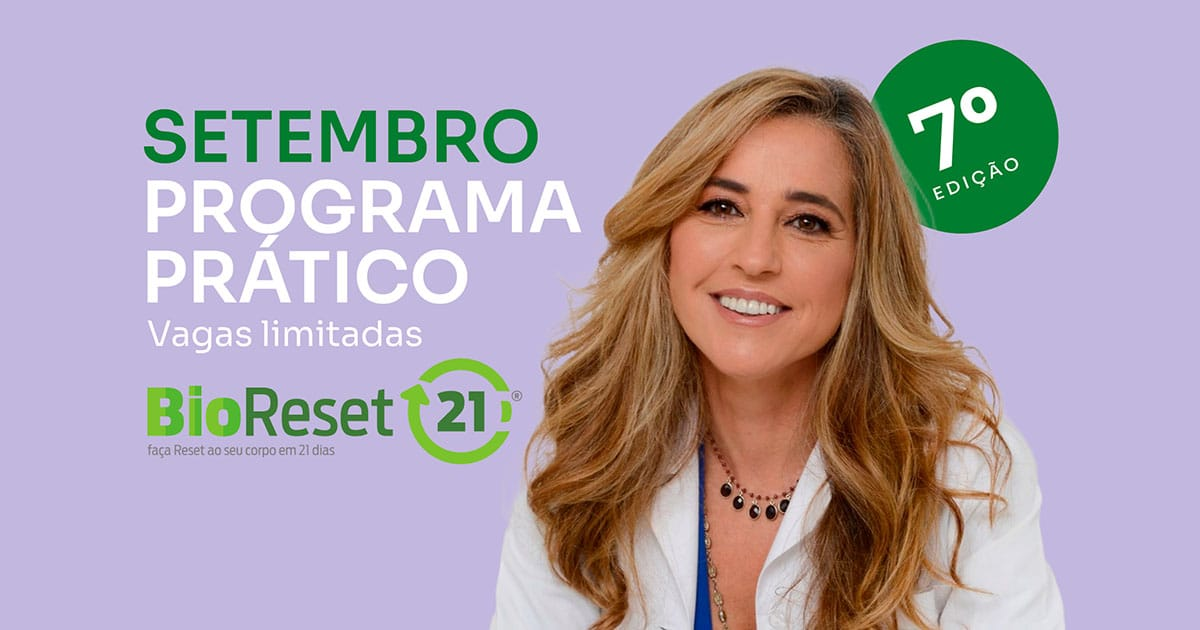
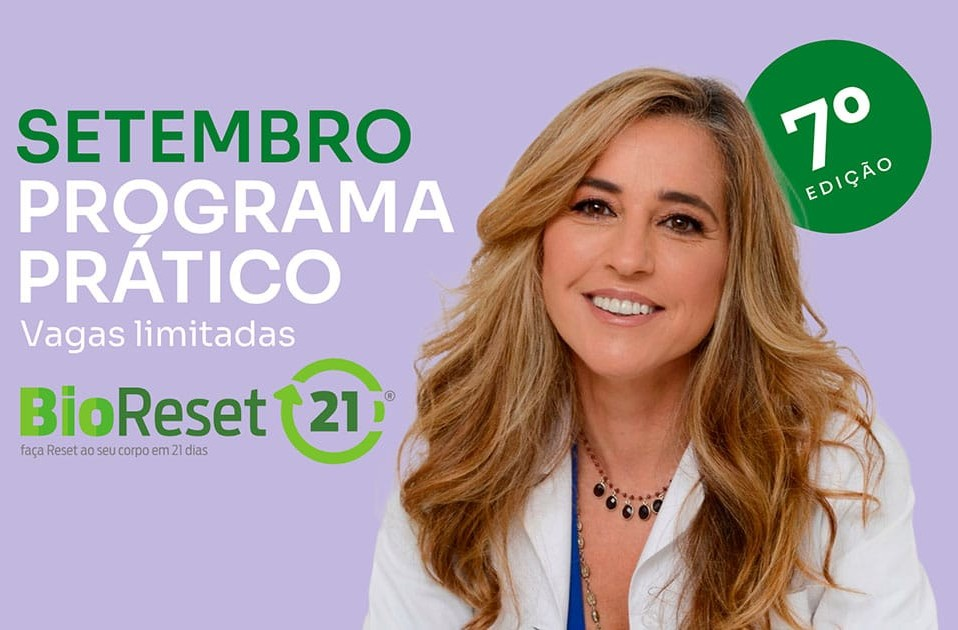
mudança de tamanho de mensagem

diff --git a/src/sections/home/BioReset.tsx b/src/sections/home/BioReset.tsx
@@ -58,11 +58,11 @@ export const BioReset: React.FC = () => {
           </div>
           
           <div className="lg:w-1/2 relative w-full mt-8 lg:mt-0">
-            <div className="relative rounded-2xl overflow-hidden aspect-[4/3] lg:aspect-[3/2] shadow-sm border border-surface-border">
+            <div className="relative rounded-2xl overflow-hidden shadow-sm border border-surface-border">
               <img 
                 src={latestCourse.image_url} 
                 alt={latestCourse.title} 
-                className="w-full h-full object-cover" 
+                className="w-full h-auto block" 
               />
             </div>
           </div>
